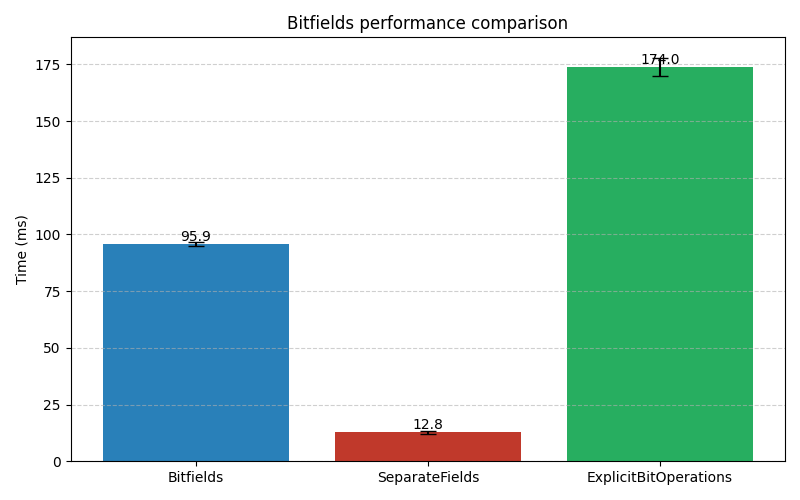
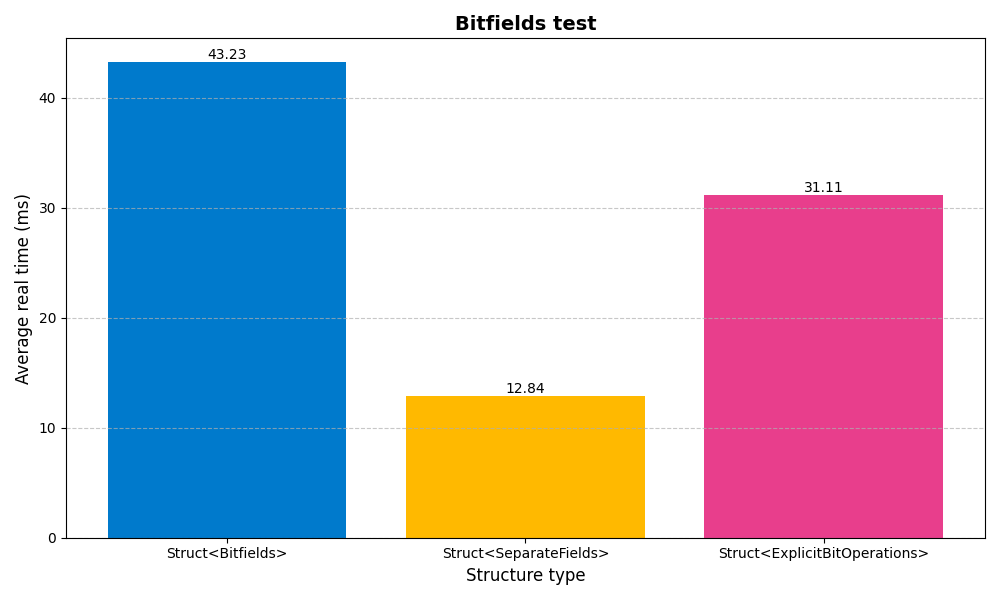
Some build fixes

diff --git a/cpp-test/bitfields/plot.py b/cpp-test/bitfields/plot.py
@@ -1,67 +1,62 @@
-import subprocess
 import json
+import pandas as pd
 import matplotlib.pyplot as plt
-import sys
 import os
 
-EXECUTABLE = "../../build/win32-x64-GCC/.output/Release/bitfields.exe"
-JSON_FILE = "benchmark.json"
-PNG_FILE = "benchmark_plot.png"
+def plot_benchmark_data(json_file_path):
+    try:
+        with open(json_file_path, 'r', encoding='utf-8') as f:
+            data = json.load(f)
+    except FileNotFoundError:
+        print(f"Error: could not find '{json_file_path}'.")
+        return
+    except json.JSONDecodeError:
+        print(f"Error: could not decode JSON from file '{json_file_path}'.")
+        return
+    except Exception as e:
+        print(f"Unexcepcted error: {e}")
+        return
 
-if len(sys.argv) > 1:
-    EXECUTABLE = sys.argv[1]
+    df = pd.DataFrame(data['benchmarks'])
 
-if not os.path.isfile(EXECUTABLE):
-    print(f"Executable not found: {EXECUTABLE}")
-    sys.exit(1)
+    df_mean = df[df['aggregate_name'] == 'mean'].copy()
 
-try:
-    print(f"Executing: {EXECUTABLE}")
-    result = subprocess.run([EXECUTABLE, "--benchmark_format=json"], capture_output=True, text=True, check=True)
-except subprocess.CalledProcessError as e:
-    print("Error while running benchmark:")
-    print(e.stderr)
-    sys.exit(1)
+    if df_mean.empty:
+        print("Error: could not find record with 'aggregate_name' == 'mean'.")
+        return
 
-try:
-    with open(JSON_FILE, "w") as f:
-        f.write(result.stdout)
-    data = json.loads(result.stdout)
-except Exception as e:
-    print("Error while JSON parsing:")
-    print(e)
-    sys.exit(1)
+    df_mean['simple_name'] = df_mean['name'].apply(
+        lambda x: x.split('/')[0].replace('BM_', '')
+    )
 
-benchmarks = data.get("benchmarks", [])
-entries = []
+    names = df_mean['simple_name']
+    times = df_mean['real_time']
 
-for b in benchmarks:
-    if b.get("run_type") == "aggregate" and b.get("name", "").endswith("_mean"):
-        base_name = b["name"].replace("_mean", "")
-        struct_name = base_name.split("<")[1].split(">")[0] if "<" in base_name else base_name
-        real_time = b["real_time"]
+    time_unit = df_mean['time_unit'].iloc[0]
 
-        stddev = next(
-            (x["real_time"] for x in benchmarks if x["name"] == f"{base_name}_stddev"),
-            0.0
-        )
-        entries.append((struct_name, real_time, stddev))
+    plt.figure(figsize=(10, 6))
 
-if not entries:
-    print("There is no aggregate fields in JSON. Make sure you use ->Repetitions(N)->ReportAggregatesOnly(true).")
-    sys.exit(1)
+    bars = plt.bar(names, times, color=['#007ACC', '#FFB900', '#E83E8C'])
 
-labels, times, stddevs = zip(*entries)
-plt.figure(figsize=(8, 5))
-bars = plt.bar(labels, times, yerr=stddevs, capsize=6, color=["#2980b9", "#c0392b", "#27ae60"])
+    plt.bar_label(bars, fmt='%.2f')
 
-plt.ylabel("Time (ms)")
-plt.title("Bitfields performance comparison")
-plt.grid(axis="y", linestyle="--", alpha=0.6)
-plt.tight_layout()
+    plt.xlabel('Structure type', fontsize=12)
+    plt.ylabel(f'Average real time ({time_unit})', fontsize=12)
+    plt.title('Bitfields test', fontsize=14, fontweight='bold')
 
-for bar, t in zip(bars, times):
-    plt.text(bar.get_x() + bar.get_width() / 2, t, f"{t:.1f}", ha="center", va="bottom")
+    plt.grid(axis='y', linestyle='--', alpha=0.7)
 
-plt.savefig(PNG_FILE, format="png")
-print(f"Figure saved: {PNG_FILE}")
+    plt.tight_layout()
+
+    output_filename = 'benchmark_plot.png'
+    plt.savefig(output_filename)
+
+    print(f"Graph successfully saved to {output_filename}")
+
+    plt.show()
+
+if __name__ == "__main__":
+    script_dir = os.path.dirname(os.path.abspath(__file__))
+    json_path = os.path.join(script_dir, "benchmark.json")
+
+    plot_benchmark_data(json_path)

diff --git a/cpp-test/fast/main.cpp b/cpp-test/fast/main.cpp
@@ -1,126 +1,5 @@
-#include <limits.h>
+#include <iostream>
 
-int Factorial(int n) {
-  int result = 1;
-  for (int i = 1; i <= n; i++) {
-    result *= i;
-  }
-
-  return result;
+int main() {
+    
 }
-
-// Returns true if and only if n is a prime number.
-bool IsPrime(int n) {
-  // Trivial case 1: small numbers
-  if (n <= 1) return false;
-
-  // Trivial case 2: even numbers
-  if (n % 2 == 0) return n == 2;
-
-  // Now, we have that n is odd and n >= 3.
-
-  // Try to divide n by every odd number i, starting from 3
-  for (int i = 3;; i += 2) {
-    // We only have to try i up to the square root of n
-    if (i > n / i) break;
-
-    // Now, we have i <= n/i < n.
-    // If n is divisible by i, n is not prime.
-    if (n % i == 0) return false;
-  }
-
-  // n has no integer factor in the range (1, n), and thus is prime.
-  return true;
-}
-
-#include <gtest/gtest.h>
-namespace {
-
-// Step 2. Use the TEST macro to define your tests.
-//
-// TEST has two parameters: the test case name and the test name.
-// After using the macro, you should define your test logic between a
-// pair of braces.  You can use a bunch of macros to indicate the
-// success or failure of a test.  EXPECT_TRUE and EXPECT_EQ are
-// examples of such macros.  For a complete list, see gtest.h.
-//
-// <TechnicalDetails>
-//
-// In Google Test, tests are grouped into test cases.  This is how we
-// keep test code organized.  You should put logically related tests
-// into the same test case.
-//
-// The test case name and the test name should both be valid C++
-// identifiers.  And you should not use underscore (_) in the names.
-//
-// Google Test guarantees that each test you define is run exactly
-// once, but it makes no guarantee on the order the tests are
-// executed.  Therefore, you should write your tests in such a way
-// that their results don't depend on their order.
-//
-// </TechnicalDetails>
-
-// Tests Factorial().
-
-// Tests factorial of negative numbers.
-TEST(FactorialTest, Negative) {
-  // This test is named "Negative", and belongs to the "FactorialTest"
-  // test case.
-  EXPECT_EQ(1, Factorial(-5));
-  EXPECT_EQ(1, Factorial(-1));
-  EXPECT_GT(Factorial(-10), 0);
-
-  // <TechnicalDetails>
-  //
-  // EXPECT_EQ(expected, actual) is the same as
-  //
-  //   EXPECT_TRUE((expected) == (actual))
-  //
-  // except that it will print both the expected value and the actual
-  // value when the assertion fails.  This is very helpful for
-  // debugging.  Therefore in this case EXPECT_EQ is preferred.
-  //
-  // On the other hand, EXPECT_TRUE accepts any Boolean expression,
-  // and is thus more general.
-  //
-  // </TechnicalDetails>
-}
-
-// Tests factorial of 0.
-TEST(FactorialTest, Zero) { EXPECT_EQ(1, Factorial(0)); }
-
-// Tests factorial of positive numbers.
-TEST(FactorialTest, Positive) {
-  EXPECT_EQ(1, Factorial(1));
-  EXPECT_EQ(2, Factorial(2));
-  EXPECT_EQ(6, Factorial(3));
-  EXPECT_EQ(40320, Factorial(8));
-}
-
-// Tests IsPrime()
-
-// Tests negative input.
-TEST(IsPrimeTest, Negative) {
-  // This test belongs to the IsPrimeTest test case.
-
-  EXPECT_FALSE(IsPrime(-1));
-  EXPECT_FALSE(IsPrime(-2));
-  EXPECT_FALSE(IsPrime(INT_MIN));
-}
-
-// Tests some trivial cases.
-TEST(IsPrimeTest, Trivial) {
-  EXPECT_FALSE(IsPrime(0));
-  EXPECT_FALSE(IsPrime(1));
-  EXPECT_TRUE(IsPrime(2));
-  EXPECT_TRUE(IsPrime(3));
-}
-
-// Tests positive input.
-TEST(IsPrimeTest, Positive) {
-  EXPECT_FALSE(IsPrime(4));
-  EXPECT_TRUE(IsPrime(5));
-  EXPECT_FALSE(IsPrime(6));
-  EXPECT_TRUE(IsPrime(23));
-}
-}  // namespace
